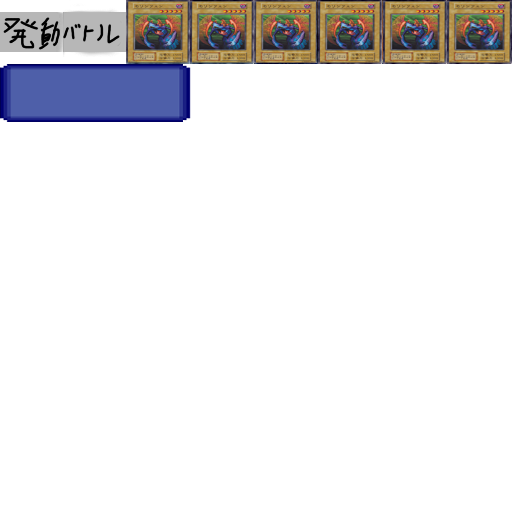
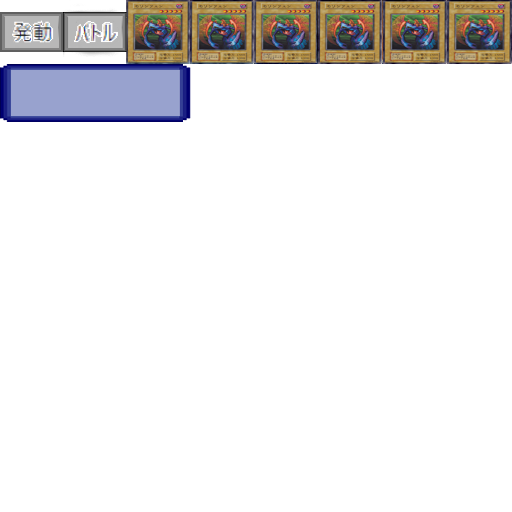
ボタン不具合調整 カード表示不具合調整

Changed region(s): [[0.0, 0.0, 0.375, 0.25]]

diff --git a/Main/Main/PList.h b/Main/Main/PList.h
@@ -11,7 +11,7 @@ public:
 	CObjPlist() {};
 	~CObjPlist() {};
 	void Init();
-	char* Action(char **name,int type, int *nanber,float *ntnanber, int *hp, int *atack, int *guard, char **text);
+	char* Action(char **name,int type, int *nanber,int *ntnanber, int *hp, int *atack, int *guard, char **text);
 	void Draw();
 
 private:
